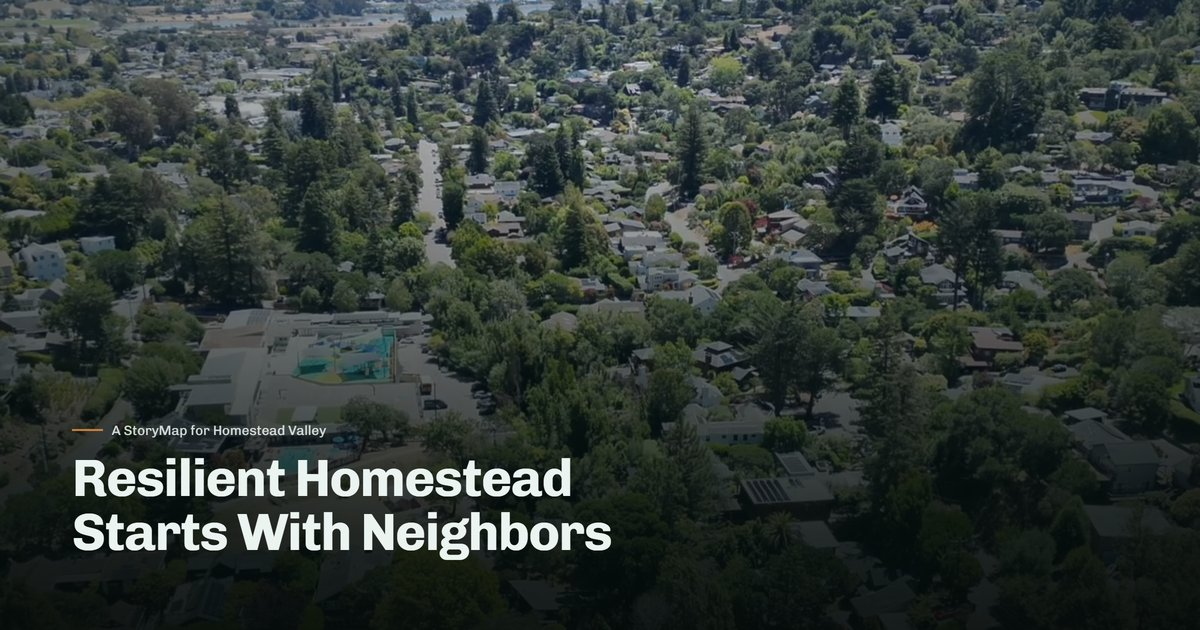
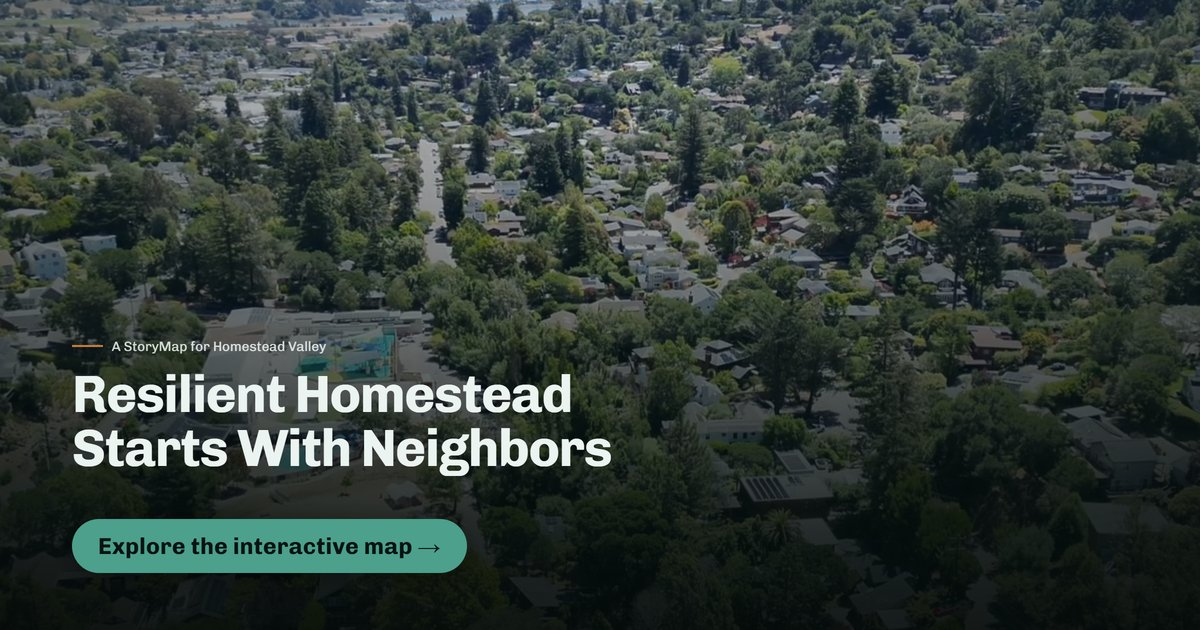
feat: update Open Graph metadata for improved sharing and SEO

diff --git a/index.html b/index.html
@@ -23,21 +23,25 @@
                     platform crops cleanly. og-image.jpg is the hero frame
                     with its headline - regenerate it if the hero changes.
 
-       Keep title/description/og:title/og:description in step when editing. -->
-  <title>Homestead Valley Wildfire Risk &amp; Preparedness | Marin County, CA</title>
-  <meta name="description" content="Explore Homestead Valley's wildfire risk on an interactive map. Learn how embers ignite homes, how to harden yours, and where Mill Valley neighbors get help." />
+       The og: pair is deliberately shorter than title/description: a shared
+       card sits under a neighbour's message with the domain shown, so it
+       drops the place suffix and fits the ~125 chars mobile apps show.
+       Apostrophes in content="" are typographic (U+2019) - some preview
+       checkers stop reading the attribute at a straight one. -->
+  <title>Homestead Valley Wildfire Risk &amp; Preparedness | Marin, CA</title>
+  <meta name="description" content="Explore Homestead Valley’s wildfire risk on an interactive map. Learn how embers ignite homes, how to harden yours, and where Mill Valley neighbors get help." />
   <link rel="canonical" href="https://resilient-homestead.github.io/wildfire-storymap/" />
 
   <meta property="og:type" content="website" />
   <meta property="og:site_name" content="Homestead Valley Wildfire StoryMap" />
   <meta property="og:locale" content="en_US" />
   <meta property="og:url" content="https://resilient-homestead.github.io/wildfire-storymap/" />
-  <meta property="og:title" content="Homestead Valley Wildfire Risk &amp; Preparedness | Marin County, CA" />
-  <meta property="og:description" content="Explore Homestead Valley's wildfire risk on an interactive map. Learn how embers ignite homes, how to harden yours, and where Mill Valley neighbors get help." />
+  <meta property="og:title" content="Homestead Valley Wildfire Risk &amp; Preparedness" />
+  <meta property="og:description" content="See Homestead Valley’s wildfire risk on an interactive map, and how neighbors can harden their homes, block by block." />
   <meta property="og:image" content="https://resilient-homestead.github.io/wildfire-storymap/og-image.jpg" />
   <meta property="og:image:width" content="1200" />
   <meta property="og:image:height" content="630" />
-  <meta property="og:image:alt" content="Aerial view of tree-covered Homestead Valley homes with the headline Resilient Homestead Starts With Neighbors" />
+  <meta property="og:image:alt" content="Aerial view of tree-covered Homestead Valley homes with the headline Resilient Homestead Starts With Neighbors and an Explore the interactive map button" />
   <meta name="twitter:card" content="summary_large_image" />
 
   <!-- Icons, cropped from the Resilient Neighbors badge to its houses and
